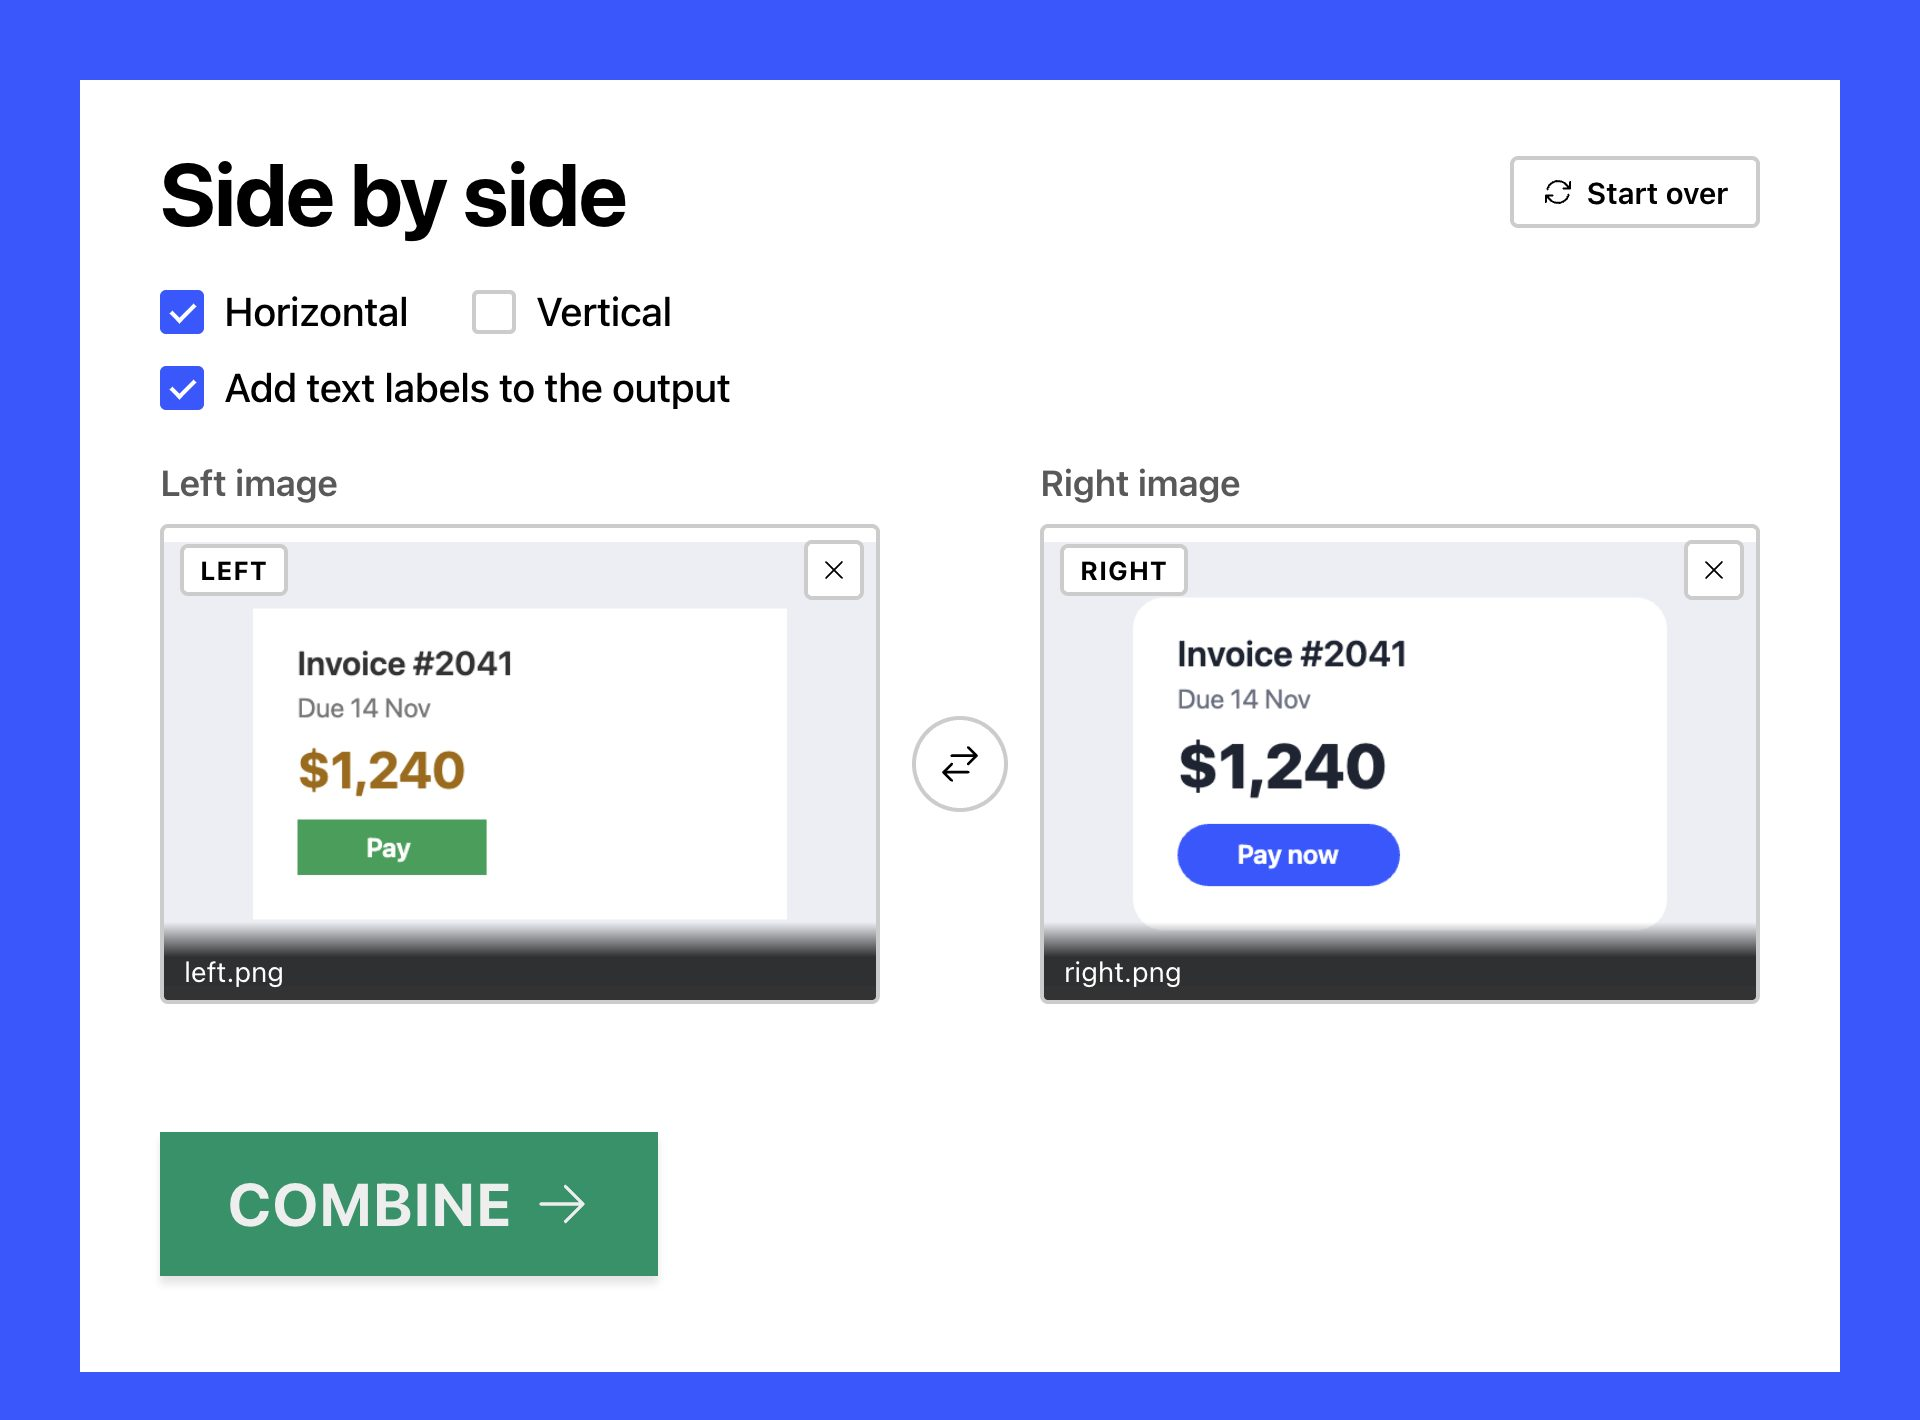
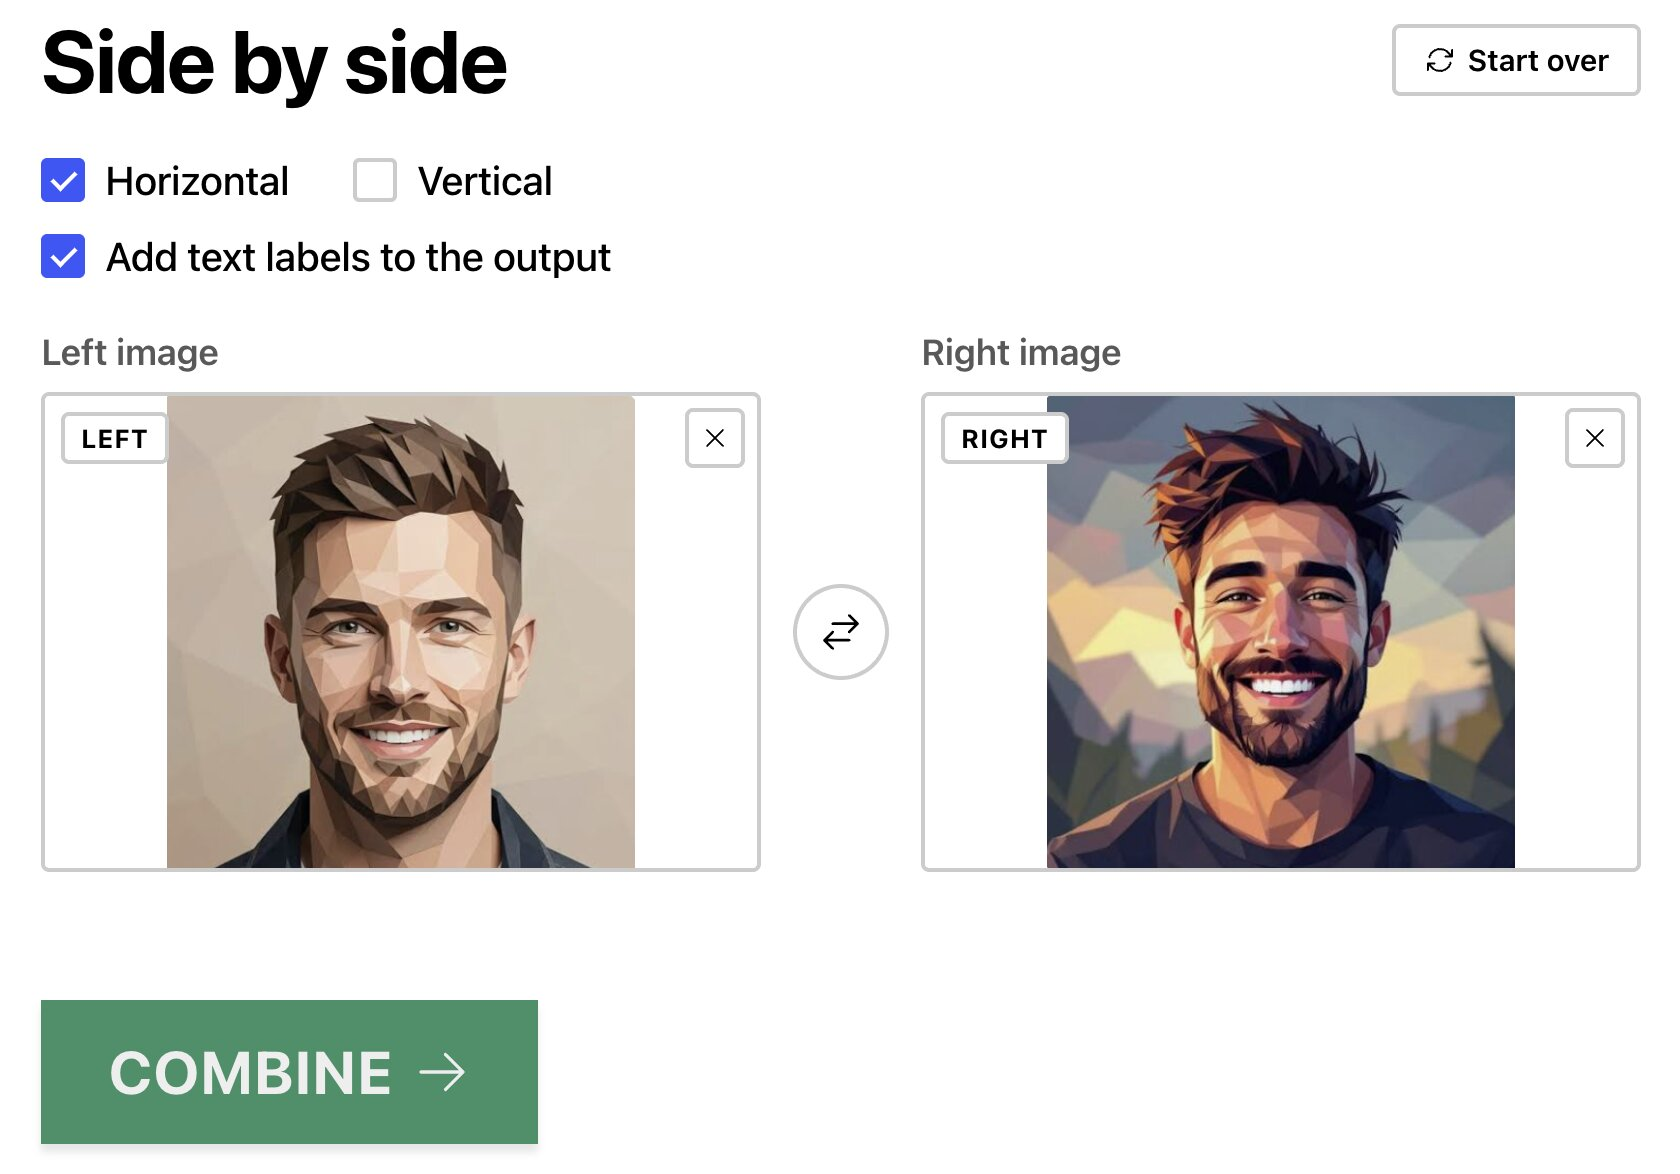
README: replace the two screenshots with the low-poly portrait shots
Pick screen and result card, re-encoded as JPEG at native width. Same
file names, alt text rewritten for the new pictures.

Developer-Sonnet5.5-agent

diff --git a/README.md b/README.md
@@ -2,9 +2,9 @@
 
 Put two screenshots side by side in one image, each marked LEFT or RIGHT, so a model can tell which is which.
 
-![sbs with two invoice screenshots pasted into the Left image and Right image boxes, ready to combine](docs-public/sbs-pick.jpg)
+![sbs with a low-poly portrait in the Left image box and another in the Right image box, Horizontal and text labels ticked, ready to combine](docs-public/sbs-pick.jpg)
 
-![The result card: one image with a green LEFT bar and a green RIGHT bar, a file name, Copy image and Download](docs-public/sbs-result.jpg)
+![The result card: the two portraits in one image with a green LEFT bar and a green RIGHT bar, a file name, Copy image, Copy file name and Download](docs-public/sbs-result.jpg)
 
 ## When it helps
 
